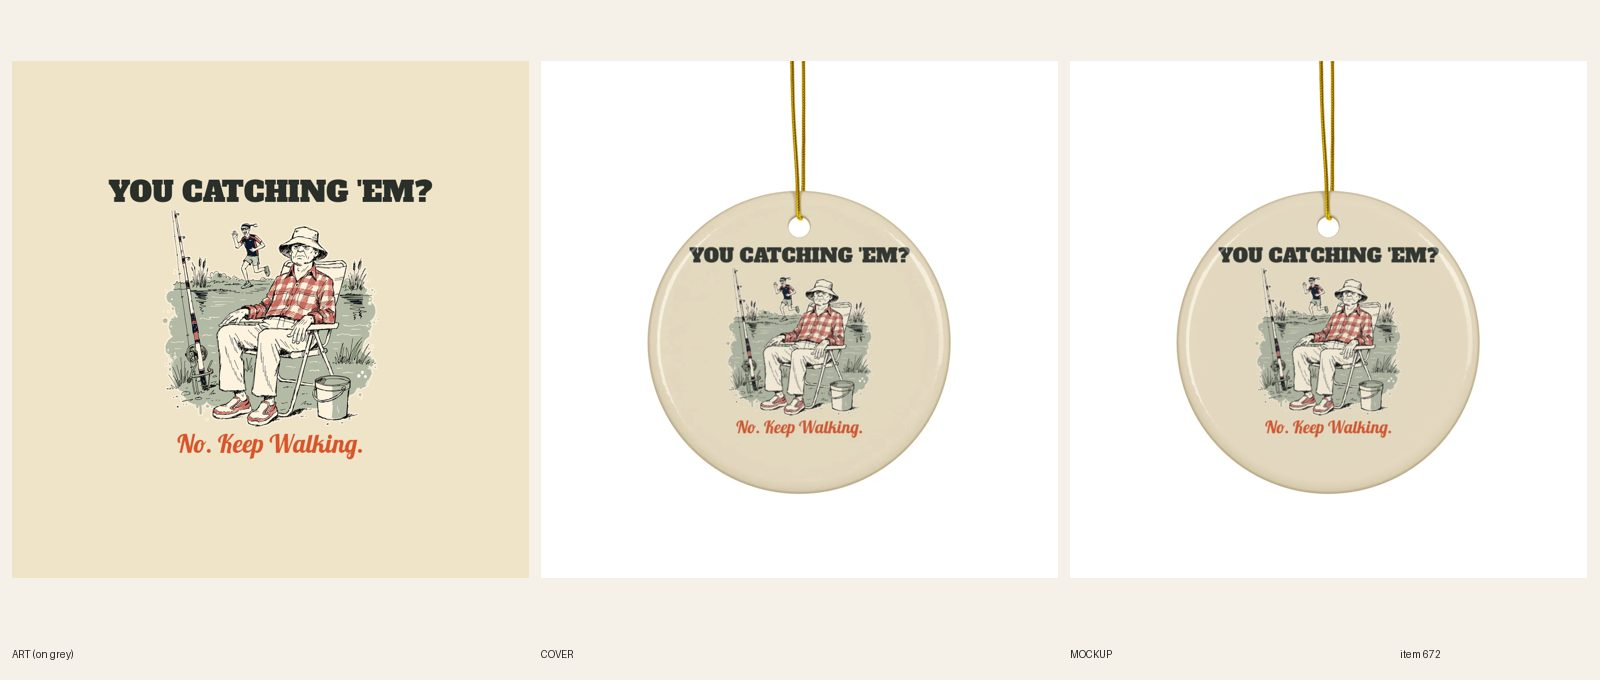
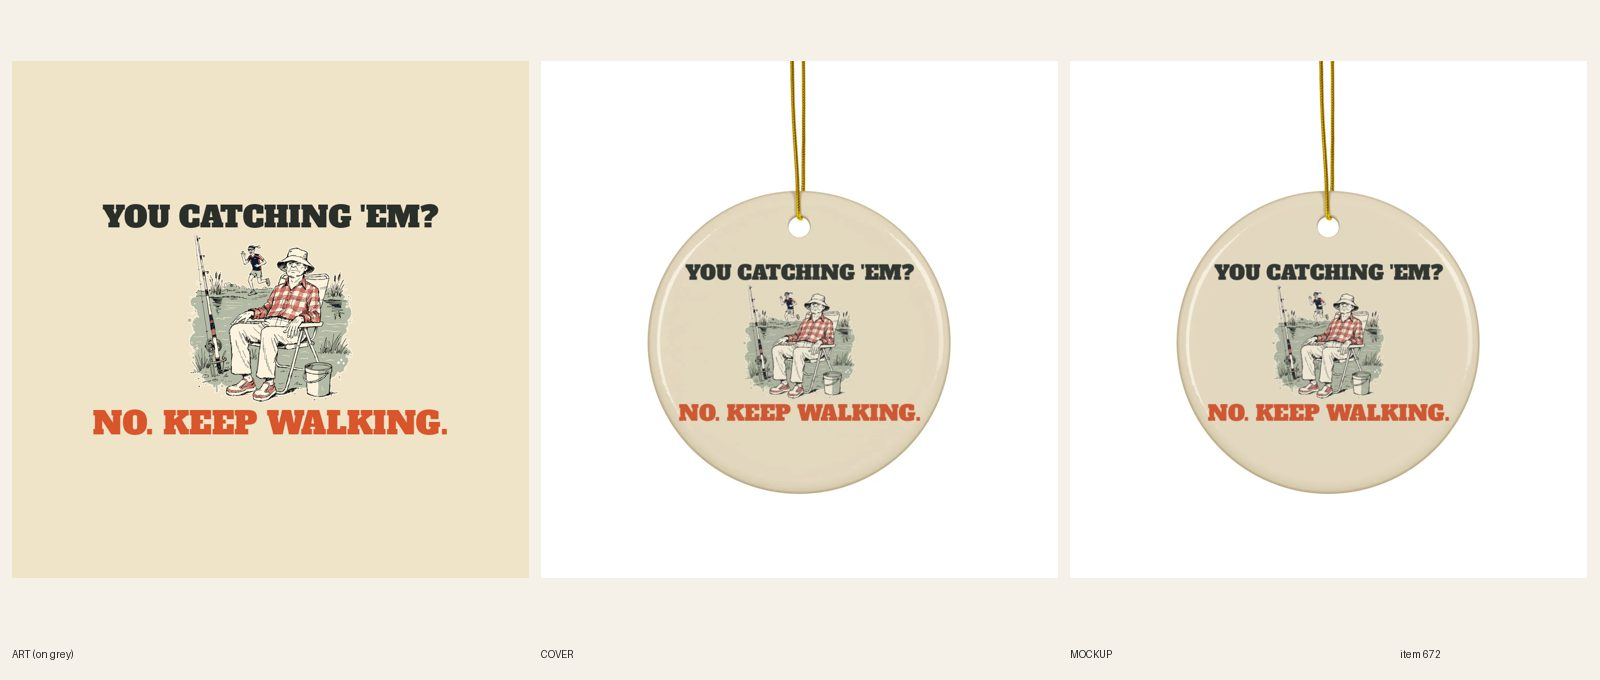
[B] redo 672 ornament: punch wider than headline

Changed region(s): [[0.0625, 0.2471, 0.2812, 0.6794], [0.4062, 0.3397, 0.5938, 0.6485], [0.75, 0.3397, 0.9062, 0.6485]]

diff --git a/scripts/b-ornament-print.py b/scripts/b-ornament-print.py
@@ -30,7 +30,7 @@ def chord(y0, y1):  # width of the safe circle at the vertical edge of [y0,y1] f
 lines = [('T', l) for l in s.get('top', [])] + [('A', None)] + [('B', l) for l in s.get('bottom', [])]
 GAP = s.get('gap', 14); ah = s.get('art_h', 380)
 def fit(l, y0, y1):
-    wmax = chord(y0, y1) * s.get('fill_w', 0.97); size = 400
+    wmax = chord(y0, y1) * s.get('fill_w', 0.97) * l.get('wfrac', 1); size = 400
     while True:
         f = fnt(l, size); b = d.textbbox((0, 0), l['text'], font=f, stroke_width=l.get('stroke', 0))
         if b[2] - b[0] <= wmax and b[3] - b[1] <= l.get('max', 90): return f, b

diff --git a/docs/pipeline/672-fishing-ornament-you-catching-em-no-keep-walking.md b/docs/pipeline/672-fishing-ornament-you-catching-em-no-keep-walking.md
@@ -1,4 +1,4 @@
-status: REDO
+status: REVIEW
 lane: B
 type: addon
 id: 672
@@ -33,3 +33,4 @@ kd: 32
 - 2026-10-19 09:50 UTC [B]: REDO done. headline widened to 598 px of a 624 px chord and now the loudest line, second line reduced; solid dark ink, no keyline (R5.3.8). New print file 1089454639 relinked on the single variant (R7.7, synced), new #881 mockup and cover, Shopify media replaced in place, review sheet remade, read at phone size. fal 0.
 - 2026-10-19 10:30 UTC director: REDO fixed, APPROVED on the new docs/review/672.jpg (YOU CATCHING 'EM? now a heavy dark slab, louder than the orange-red script line, which is fine on a pale disc; every word reads at phone size on the Printful mockup, R5.3.8). Copy names no letter colors that changed; checked. Stays DRAFT at status REVIEW until the quality reset says RESUME; the director publishes it then with the audit.
 - 2026-10-20 19:40 UTC director: REDO (still DRAFT). R3.7.8 / quality-reset bar, same call as #677 and #694 today: the punch line No. Keep Walking. is a mid-weight script about 40% of YOU CATCHING 'EM?'s width and the smallest words on the disc. Set NO. KEEP WALKING. at least as wide as the headline, in a heavy slab or heavy script in the red-orange from the art (it may take two lines: NO. / KEEP WALKING.); shrink the art, not the words. Keep solid ink, no keyline (R5.3.8). New file, re-link 1/1 (R7.7), new mockup + sheet.
+- 2026-10-21 05:45 UTC [B]: REDO done (3.7.8): NO. KEEP WALKING. is now a heavy Alfa Slab One line in the art's red-orange (#d9552b), 656 px wide vs headline YOU CATCHING 'EM? 621 px (punch 106% of the headline), both on single lines inside the safe circle; art 330 px tall; solid ink, no keyline. New file 1090938761 relinked on the single variant (R7.7, sync 482959778), new #881 mockup checked at phone size (both lines read), Shopify media replaced in place and re-attached to the variant, cover webp and sheet docs/review/672.jpg remade; Story sentence fixed ('orange-red script' -> 'bold orange-red slab letters'). Source art from live file 1088727623. fal $0.

diff --git a/docs/intake-log.md b/docs/intake-log.md
@@ -1,4 +1,5 @@
 RUNNING helper since 2026-10-21 05:43 UTC
+2026-10-21 05:45 UTC — [B] Builder run (REDO): #672 Fishing You Catching Em? No. Keep Walking. Ornament redo: punch 656 px vs headline 621 px (106%), new file 1090938761, REVIEW. fal $0.
 RUNNING lane C since 2026-10-21 05:25 UTC
 2026-10-21 05:44 UTC — [B] Builder run (REDO): #694 Christmas Tree It Looked Smaller at the Farm Mug redo: AT THE FARM 1014 px vs headline 1006 px (101%), new wrap file 1090935994, Shopify media replaced, REVIEW. fal $0.
 2026-10-21 05:38 UTC — [B] Builder run: #834 Men's Papa Has a Spot. Won't Say Where. Camo Hoodie built to REVIEW (DRAFT 15371567563056, Forest + Duck + Deadwood Tree Camo 18/18 on 1090933259, FW 1500, new art 1 call, type 26% flagged, flat cover, audit PASS). fal $0.04.
